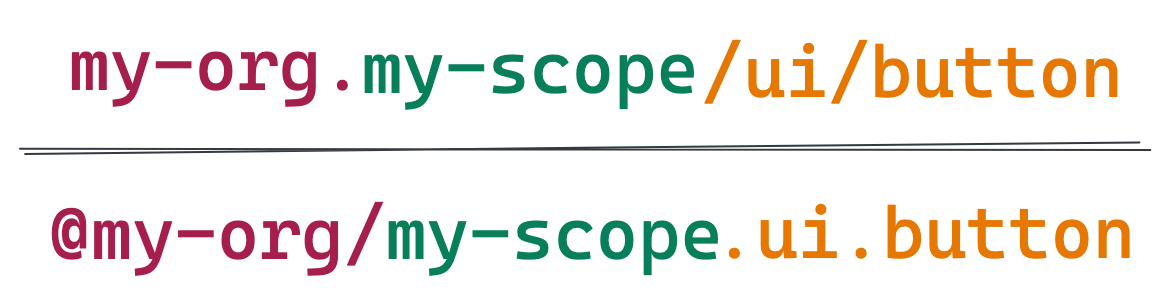
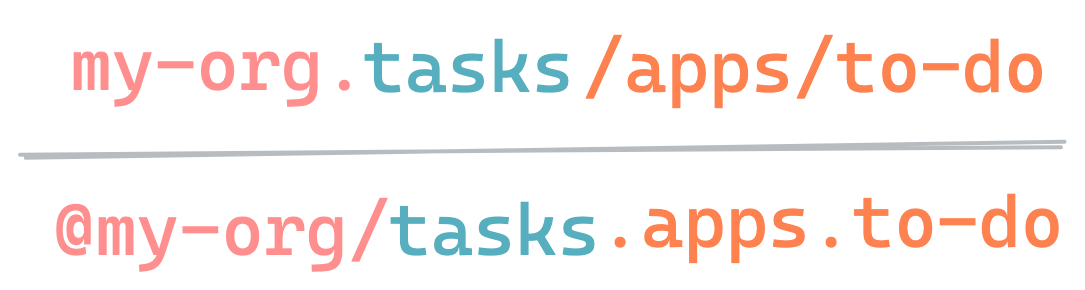
replace ui/button demo component with apps/to-do

Changed region(s): [[0.0304, 0.6517, 1.0, 0.9621], [0.0608, 0.1241, 0.9733, 0.3724], [0.0, 0.4655, 1.0, 0.5586]]

diff --git a/docs/docs/getting-started/create-components/bit-show.tsx b/docs/docs/getting-started/create-components/bit-show.tsx
@@ -31,56 +31,54 @@ const descriptions = [
 ];
 
 const bitShowOutput = `
-┌───────────────────┬────────────────────────────────────────────────────────────┐
-│ id                │ teambit.community/ui/button                                │
-├───────────────────┼────────────────────────────────────────────────────────────┤
-│ scope             │ teambit.community                                          │
-├───────────────────┼────────────────────────────────────────────────────────────┤
-│ name              │ ui/button                                                  │
-├───────────────────┼────────────────────────────────────────────────────────────┤
-│ env               │ teambit.react/react                                        │
-├───────────────────┼────────────────────────────────────────────────────────────┤
-│ package name      │ @teambit/community.ui.button                               │
-├───────────────────┼────────────────────────────────────────────────────────────┤
-│ deprecated        │ false                                                      │
-├───────────────────┼────────────────────────────────────────────────────────────┤
-│ main file         │ index.ts                                                   │
-├───────────────────┼────────────────────────────────────────────────────────────┤
-│ files             │ button.composition.tsx                                     │
-│                   │ button.docs.mdx                                            │
-│                   │ button.spec.tsx                                            │
-│                   │ button.tsx                                                 │
-│                   │ index.ts                                                   │
-├───────────────────┼────────────────────────────────────────────────────────────┤
-│ dev files         │ button.spec.tsx (teambit.defender/tester)                  │
-│                   │ button.composition.tsx (teambit.compositions/compositions) │
-│                   │ button.docs.mdx (teambit.docs/docs)                        │
-├───────────────────┼────────────────────────────────────────────────────────────┤
-│ aspects           │ teambit.envs/envs                                          │
-│                   │ teambit.react/react                                        │
-│                   │ teambit.compilation/compiler                               │
-│                   │ teambit.component/dev-files                                │
-│                   │ teambit.compositions/compositions                          │
-│                   │ teambit.pkg/pkg                                            │
-│                   │ teambit.docs/docs                                          │
-│                   │ teambit.dependencies/dependency-resolver                   │
-│                   │ teambit.compilation/compiler                               │
-├───────────────────┼────────────────────────────────────────────────────────────┤
-│ dependencies      │ core-js@^3.0.0- (package)                                  │
-├───────────────────┼────────────────────────────────────────────────────────────┤
-│ dev dependencies  │ @types/testing-library__jest-dom@5.9.5- (package)          │
-│                   │ @babel/runtime@7.12.18----------------- (package)          │
-│                   │ @types/jest@^26.0.0-------------------- (package)          │
-│                   │ @types/react-dom@^17.0.5--------------- (package)          │
-│                   │ @types/react@^17.0.8------------------- (package)          │
-│                   │ @types/node@12.20.4-------------------- (package)          │
-├───────────────────┼────────────────────────────────────────────────────────────┤
-│ peer dependencies │ @testing-library/react@12.0.0- (package)                   │
-│                   │ react-dom@^16.8.0 || ^17.0.0-- (package)                   │
-│                   │ react@^16.8.0 || ^17.0.0------ (package)                   │
-└───────────────────┴────────────────────────────────────────────────────────────┘
+┌───────────────────┬───────────────────────────────────────────────────────────┐
+│ id                │ my-org.tasks/apps/to-do                                   │
+├───────────────────┼───────────────────────────────────────────────────────────┤
+│ scope             │ my-org.tasks                                              │
+├───────────────────┼───────────────────────────────────────────────────────────┤
+│ name              │ apps/to-do                                                │
+├───────────────────┼───────────────────────────────────────────────────────────┤
+│ env               │ teambit.react/react                                       │
+├───────────────────┼───────────────────────────────────────────────────────────┤
+│ package name      │ @my-org/tasks.apps.to-do                                  │
+├───────────────────┼───────────────────────────────────────────────────────────┤
+│ deprecated        │ false                                                     │
+├───────────────────┼───────────────────────────────────────────────────────────┤
+│ main file         │ index.ts                                                  │
+├───────────────────┼───────────────────────────────────────────────────────────┤
+│ files             │ index.ts                                                  │
+│                   │ to-do.composition.tsx                                     │
+│                   │ to-do.docs.mdx                                            │
+│                   │ to-do.spec.tsx                                            │
+│                   │ to-do.tsx                                                 │
+├───────────────────┼───────────────────────────────────────────────────────────┤
+│ dev files         │ to-do.spec.tsx (teambit.defender/tester)                  │
+│                   │ to-do.composition.tsx (teambit.compositions/compositions) │
+│                   │ to-do.docs.mdx (teambit.docs/docs)                        │
+├───────────────────┼───────────────────────────────────────────────────────────┤
+│ aspects           │ teambit.envs/envs                                         │
+│                   │ teambit.react/react                                       │
+│                   │ teambit.compilation/compiler                              │
+│                   │ teambit.component/dev-files                               │
+│                   │ teambit.compositions/compositions                         │
+│                   │ teambit.pkg/pkg                                           │
+│                   │ teambit.docs/docs                                         │
+│                   │ teambit.dependencies/dependency-resolver                  │
+│                   │ teambit.compilation/compiler                              │
+├───────────────────┼───────────────────────────────────────────────────────────┤
+│ dependencies      │ core-js@^3.0.0- (package)                                 │
+├───────────────────┼───────────────────────────────────────────────────────────┤
+│ dev dependencies  │ @types/testing-library__jest-dom@5.9.5- (package)         │
+│                   │ @babel/runtime@7.12.18----------------- (package)         │
+│                   │ @types/jest@^26.0.0-------------------- (package)         │
+│                   │ @types/react-dom@^17.0.5--------------- (package)         │
+│                   │ @types/react@^17.0.8------------------- (package)         │
+│                   │ @types/node@12.20.4-------------------- (package)         │
+├───────────────────┼───────────────────────────────────────────────────────────┤
+│ peer dependencies │ @testing-library/react@^12.1.5- (package)                 │
+│                   │ react-dom@^16.8.0 || ^17.0.0--- (package)                 │
+│                   │ react@^16.8.0 || ^17.0.0------- (package)                 │
+└───────────────────┴───────────────────────────────────────────────────────────┘
 `;
 
-export const BitShowExample = () => (
-  <BitShowExplorer bitShowOutput={bitShowOutput} descriptions={descriptions} />
-);
+export const BitShowExample = () => <BitShowExplorer bitShowOutput={bitShowOutput} descriptions={descriptions} />;

diff --git a/docs/docs/getting-started/create-components/commands.tsx b/docs/docs/getting-started/create-components/commands.tsx
@@ -1,29 +1,41 @@
 import React from 'react';
 import { CommandsExplorer } from '@teambit/community.ui.bit-cli.commands-explorer';
+import { Terminal } from '@teambit/community.ui.bit-cli.terminal';
+
+const COMPONENT_NAME = 'apps/to-do';
+const OWNER = 'my-org';
+const SCOPE_NAME = 'tasks';
+const FULL_SCOPE_NAME = `${OWNER}.${SCOPE_NAME}`;
 
 const bitCreateExample = {
   'template-name': 'react',
-  'component-names...': 'ui/button',
-  scope: 'my-org-my-scope',
+  'component-names...': COMPONENT_NAME,
+  scope: FULL_SCOPE_NAME,
 };
 
 const bitShowExample = {
-  'component-name': 'ui/button',
+  'component-name': COMPONENT_NAME,
 };
 
 export const BitCreate = () => <CommandsExplorer commandName="create" />;
-export const BitCreateWithExample = () => (
-  <CommandsExplorer commandName="create" commandExample={bitCreateExample} />
-);
+export const BitCreateWithExample = () => <CommandsExplorer commandName="create" commandExample={bitCreateExample} />;
 
 export const BitShow = () => <CommandsExplorer commandName="show" />;
 
-export const BitShowWithExample = () => (
-  <CommandsExplorer commandName="show" commandExample={bitShowExample} />
-);
+export const BitShowWithExample = () => <CommandsExplorer commandName="show" commandExample={bitShowExample} />;
 
 export const BitInit = () => <CommandsExplorer commandName="init" />;
 
-export const BitCreateWithValues = () => (
-  <CommandsExplorer commandName="create" />
-);
+export const BitCreateWithValues = () => <CommandsExplorer commandName="create" />;
+
+export const BitCreateOutput = () => {
+  return (
+    <Terminal isOutput>
+      {`1 component(s) were created
+
+${FULL_SCOPE_NAME}.${COMPONENT_NAME}
+location: ${SCOPE_NAME}/${COMPONENT_NAME}
+env: teambit.react/react (set by template)`}
+    </Terminal>
+  );
+};

diff --git a/docs/docs/getting-started/create-components/component-files-explorer.tsx b/docs/docs/getting-started/create-components/component-files-explorer.tsx
@@ -1,16 +1,16 @@
 import React from 'react';
 import { FileExplorer } from '@teambit/community.ui.file-explorer';
-import { composition } from './demo-component-files/button-composition-tsx';
-import { docs } from './demo-component-files/button-docs-mdx';
-import { spec } from './demo-component-files/button-spec-tsx';
-import { button } from './demo-component-files/button-tsx';
+import { composition } from './demo-component-files/todo-composition-tsx';
+import { docs } from './demo-component-files/todo-docs-mdx';
+import { spec } from './demo-component-files/todo-spec-tsx';
+import { todo } from './demo-component-files/todo-tsx';
 import { index } from './demo-component-files/index-ts';
 
 const files = {
-  'button.composition.tsx': composition,
-  'button.docs.mdx': docs,
-  'button.spec.tsx': spec,
-  'button.tsx': button,
+  'todo.composition.tsx': composition,
+  'todo.docs.mdx': docs,
+  'todo.spec.tsx': spec,
+  'todo.tsx': todo,
   'index.ts': index,
 };
 
@@ -20,7 +20,7 @@ export const ExploreComponentFiles = () => (
       contentFontSize: 13,
       fileTreeWidth: 230,
       isDirOpen: true,
-      title: 'my-scope/ui/button',
+      title: 'my-scope/ui/todo',
       wordWrap: 'off',
     }}
     style={{ minHeight: 400 }}

diff --git a/docs/docs/getting-started/create-components/demo-component-files/todo-tsx.ts b/docs/docs/getting-started/create-components/demo-component-files/todo-tsx.ts
@@ -1,0 +1,36 @@
+export const todo = `/**
+ * This is the component's implementation file.
+ * A component may have various sorts of implementation files,
+ * depending on the type of env it uses.
+ */
+import React, { useState } from 'react';
+
+export type ToDoProps = {
+  initialTodo?: string;
+};
+
+const inputStyle = {
+  width: 240,
+  padding: 10,
+};
+
+export function ToDo({ initialTodo = 'first to-do!' }: ToDoProps) {
+  const [todos, setTodos] = useState([initialTodo]);
+  return (
+    <>
+      <input
+        style={inputStyle}
+        placeholder="Write a to-do and hit the 'return' key"
+        onKeyDown={(e) => {
+          e.code === 'Enter' &&
+            setTodos((prev) => [(e.target as HTMLInputElement).value, ...prev]);
+        }}
+      />
+      <ul>
+        {todos.map((todo, i) => (
+          <li key={i}>{todo}</li>
+        ))}
+      </ul>
+    </>
+  );
+}`;

diff --git a/docs/docs/getting-started/create-components/demo-component-files/todo-docs-mdx.ts b/docs/docs/getting-started/create-components/demo-component-files/todo-docs-mdx.ts
@@ -1,0 +1,29 @@
+export const docs = `<!-- This is the component's documentation.
+It is rendered in the component's 'Overview' tab, in Bit's UI.
+Since it is a React component, it uses the MDX format
+to integrate Markdown with JSX.  -->
+
+---
+description: A to-do app component.
+---
+
+import { ToDo } from './to-do';
+
+A component that adds to-do items to a list.
+
+### Basic usage
+
+\`\`\`js
+import { Todo } from '@my-org/tasks.apps.to-do';
+
+() => <ToDo />;
+\`\`\`
+
+### Setting an initial to-do item
+
+Set an initial to-do item using the \`initialTodo\` prop (try it out, in the live playground below):
+
+\`\`\`js live
+<ToDo initialTodo="my first item!" />
+\`\`\`
+`;

diff --git a/docs/docs/getting-started/create-components/demo-component-files/todo-spec-tsx.ts b/docs/docs/getting-started/create-components/demo-component-files/todo-spec-tsx.ts
@@ -9,11 +9,12 @@ export const spec = `/**
 */
 import React from 'react';
 import { render } from '@testing-library/react';
-import { BasicButton } from './button.composition';
+import { BasicToDo } from './to-do.composition';
 
 it('should render with the correct text', () => {
-  const { getByText } = render(<BasicButton />);
-  const rendered = getByText('hello world!');
+  const { getByPlaceholderText } = render(<BasicToDo />);
+  const rendered = getByPlaceholderText(
+    "Write a to do and hit the 'return' key"
+  );
   expect(rendered).toBeTruthy();
-});
-`;
+});`;

diff --git a/docs/docs/getting-started/create-components/demo-component-files/todo-composition-tsx.ts b/docs/docs/getting-started/create-components/demo-component-files/todo-composition-tsx.ts
@@ -12,11 +12,12 @@ export const composition = `/**
  * the component's I/O and the effects it has on the UI, if there are any
  */
 import React from 'react';
-import { Button } from './button';
+import { ToDo } from './to-do';
 
-export const BasicButton = () => {
-  return (
-    <Button>hello world!</Button>
-  );
-}
-`;
+export const BasicToDo = () => {
+  return <ToDo />;
+};
+
+export const CustomInitialTodo = () => {
+  return <ToDo initialTodo="my custom initial to-do" />;
+};`;

diff --git a/docs/docs/getting-started/create-components/demo-component-files/index-ts.ts b/docs/docs/getting-started/create-components/demo-component-files/index-ts.ts
@@ -5,5 +5,6 @@ export const index = `/**
  * by providing a single entry point.
  * */
 
-export { Button } from './button';
-export type { ButtonProps } from './button';`;
+export { ToDo } from './to-do';
+export type { ToDoProps } from './to-do';
+`;
